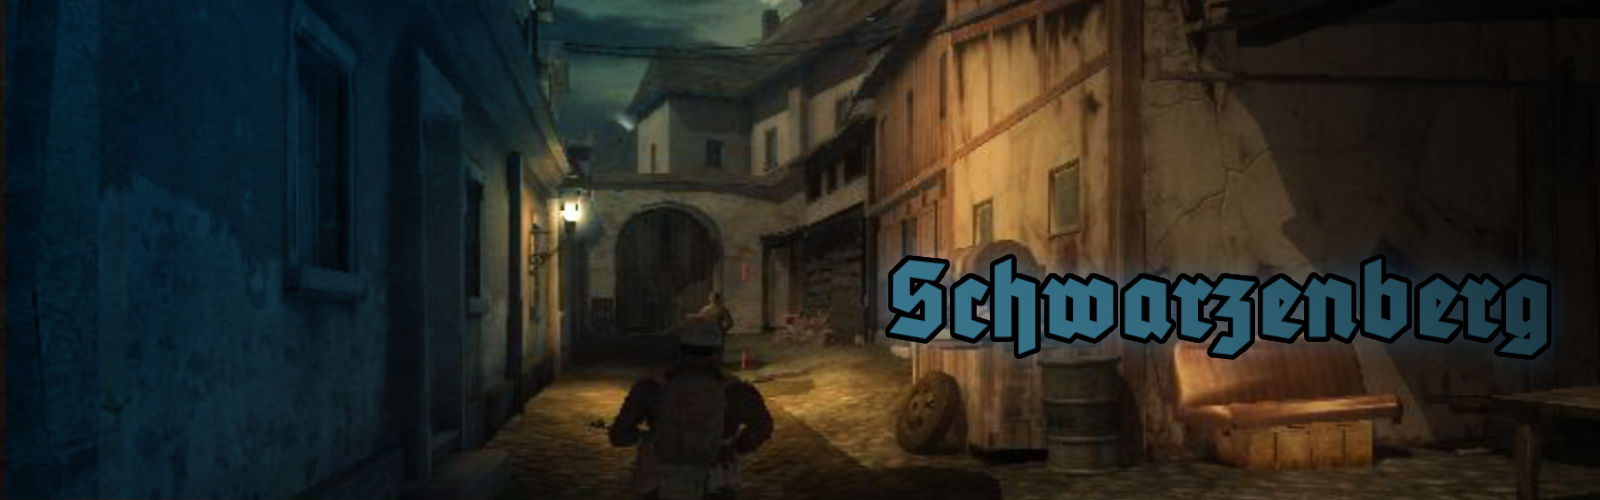
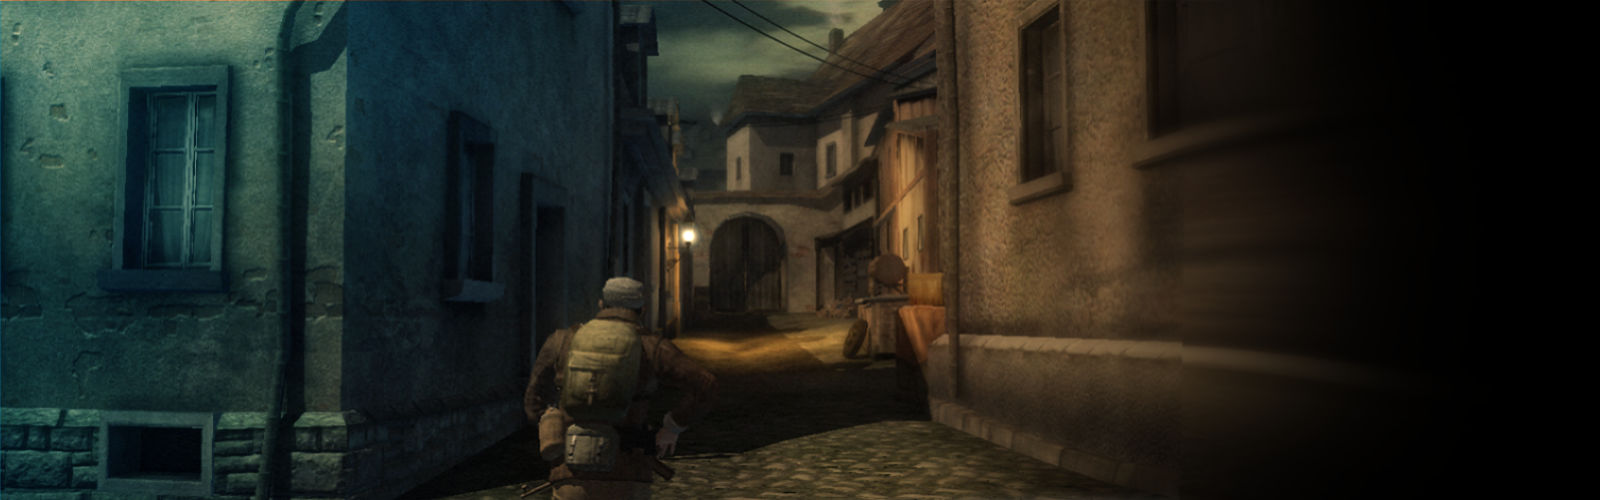
Header für Nomads, Textkorrekturen an diversen Stellen, Softgames Text erste iteration...

diff --git a/links.html b/links.html
@@ -9,28 +9,7 @@ title: Links
 
 Articles, interviews and links.
 
-<ul>
-<li><span> 2019-Jun-03 </span>
-<a href="
-https://www.golem.de/news/hyper-casual-games-30-sekunden-spielen-30-sekunden-werbung-1906-141165.html">
-golem.de "30 Sekunden spielen, 30 Sekunden Werbung"
-</a>
-About Hyper Casual (German)
-</li>
-    
-<li><span> 2019-Apr-13 </span>  
-<a href="https://t3n.de/news/jobaussichten-gamesbranche-waren-1156280/"> 
-t3n "Jobaussichten in der Gamesbranche waren nie besser"
-</a>
-(Interview. German)
-</li>
-	
-<li><span> 2018-Nov-19 </span>  
-<a href="https://blog.games-career.com/de/koepfe-der-spielebranche-interview-mit-bernd-beyreuther-von-softgames/"> 
-Games Career Blog. "Leidenschaft für Spieleenwicklung"
-</a> 
-(Interview. German)
-</li>
+
 
 <li><span> 2018-Feb-03 </span>
     <a

diff --git a/z_aboutme/_posts/2018-08-01-softgames.md b/z_aboutme/_posts/2018-08-01-softgames.md
@@ -1,10 +1,21 @@
 ---
 layout: post
 title: "Softgames"
+summary: Instant Games.
 ---
-**2018 - today**
+**2018 until today**
 
-I joined the Instant developer SOFTGAMES summer 2018 to structure and organize the game development and build up an internal game studio.
+I joined the Instant and HTML5 game developer SOFTGAMES summer 2018 as Head of Studio.
+My tasks include structuring and organization of the game development, BI and to build up an internal game studio, expand and grow existing titles and develop new games.
 
-FIXME: Add released games and achievements.
-FARM. SOLI. MOJI. JEWELS. YUMMY. T. SX. COOK LINE.
+Some of the titles my games teams created: 
+* [Solitaire Story Tripeaks](https://fb.gg/play/solitaire_tripeaks)  Producer and Gamedesigner: Alex Letov
+* [Mahjong Story](https://fb.gg/play/mahjong_story_) Producer and Gamedesigner: Murillo Carvalho dos Santos
+* ...
+
+FIXME: Add more : JEWELS BLITZ. YUMMY TALES.  TRIVIA QUIZ.  COOK LINE. ...
+
+* 2019-Jun-03 [golem.de "30 Sekunden spielen, 30 Sekunden Werbung](https://www.golem.de/news/hyper-casual-games-30-sekunden-spielen-30-sekunden-werbung-1906-141165.html) About Hyper Casual (German)
+*  2019-Apr-13 [t3n "Jobaussichten in der Gamesbranche waren nie besser](https://t3n.de/news/jobaussichten-gamesbranche-waren-1156280) Interview (German)
+* 2018-Nov-19 [Games Career Blog. "Leidenschaft für Spieleenwicklung"](https://blog.games-career.com/de/koepfe-der-spielebranche-interview-mit-bernd-beyreuther-von-softgames) Interview(German)
+

diff --git a/z_games/_posts/2011-08-01-dso.md b/z_games/_posts/2011-08-01-dso.md
@@ -2,6 +2,7 @@
 layout: post
 title: "Drakensang Online"
 featured-img: dso2
+summary: F2P Online Multiplayer Hack and Slash.
 jahr: 2011
 ---
 Drakensang Online is a F2P Online Multiplayer Hack and Slash. It combines MMORPG with Diablo style gameplay. Running in a browser with minimum download required - its actually a wrapped native Windows or Mac executable.  After being aquired by Bigpoint that game was developed by the former RadonLabs team in record-breaking 12 months and launched August 2011.

diff --git a/z_games/_posts/2018-06-01-yuneeko.md b/z_games/_posts/2018-06-01-yuneeko.md
@@ -2,7 +2,7 @@
 layout: post
 title: "Yuneeko"
 featured-img: yuneeko
-summary: A mobile story game.
+summary: Mobile story game.
 jahr: 2018
 ---
 "Yuneeko" - is a story game  developed by Smilegate´s Berlin studio  together with the developer  Gamebook.io .  Development started May 2017.  12 months later the game went into Softlaunch.  After Softlaunch the developer fully took over development and IP of the title, renamed and released it as "My Love".

diff --git a/z_games/_posts/2008-08-01-dsa.md b/z_games/_posts/2008-08-01-dsa.md
@@ -2,6 +2,7 @@
 layout: post
 title: "Drakensang The Dark Eye"
 featured-img: dsa1
+summary: Traditional, classic,  story driven party RPG.
 jahr: 2008-2010
 ---
 Drakensang is a traditional, classic,  story driven party RPG for PC. Based on the German Pen and Paper RPG "The Dark Eye" ("Das Schwarze Auge") three parts have been released:

diff --git a/z_games/_posts/2002-08-01-pn.md b/z_games/_posts/2002-08-01-pn.md
@@ -1,6 +1,7 @@
 ---
 layout: post
 title: "Project Nomads"
+featured-img: nomads
 ---
 2002 Project Nomads...
 
